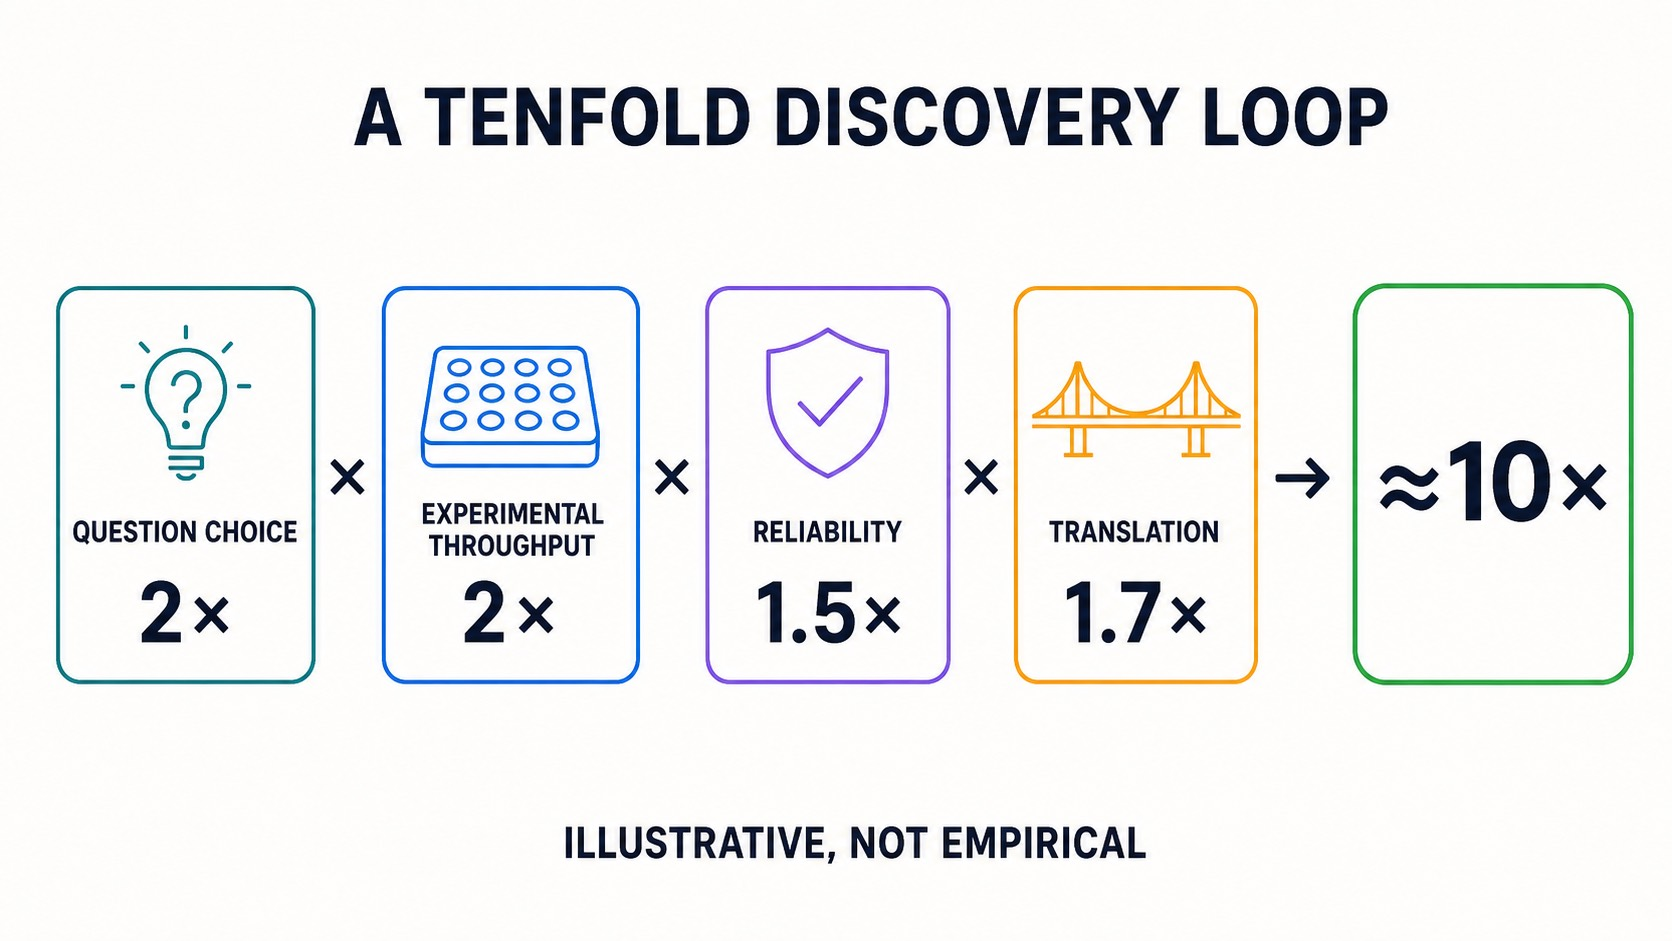
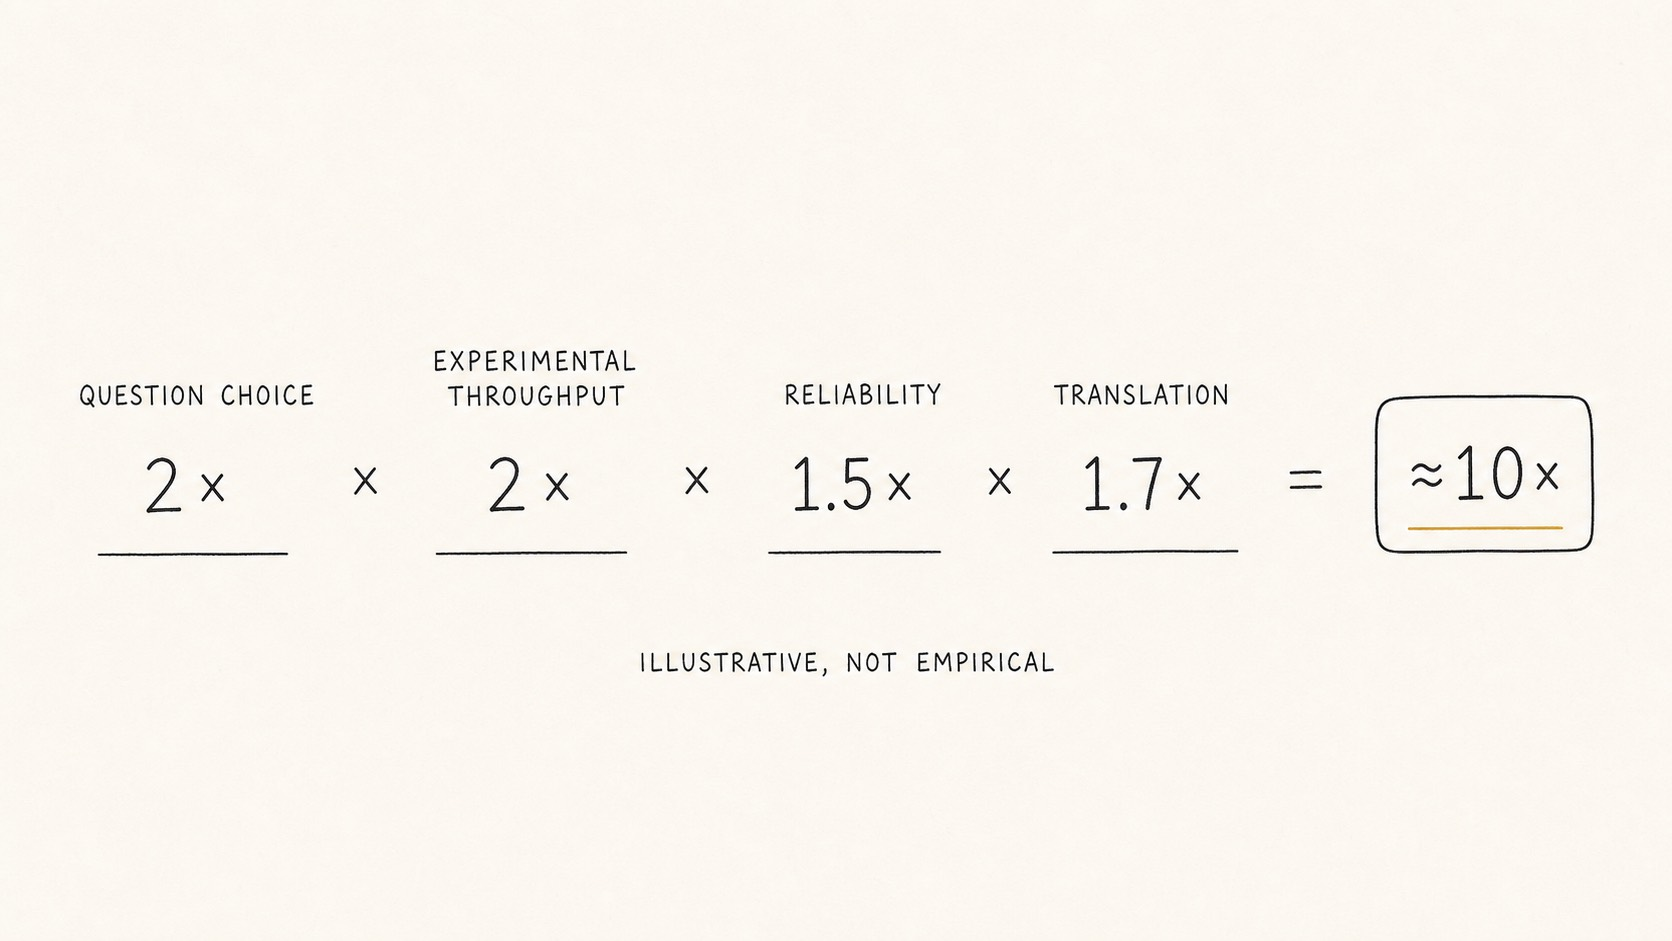
Restyle scientific discovery illustrations

diff --git a/assets/illustrations/ten-times-scientific-discovery/prompts/01-framework-tenfold-loop.md b/assets/illustrations/ten-times-scientific-discovery/prompts/01-framework-tenfold-loop.md
@@ -1,47 +1,46 @@
 ---
 illustration_id: 01
 type: framework
-style: scientific
+style: research-site-editorial-thin-line
 aspect_ratio: "16:9"
 final_filename: 01-framework-tenfold-loop.jpg
 ---
 
-Use case: scientific-educational
-Asset type: editorial illustration inside a research essay
-Primary request: Create a clean scientific framework titled exactly "A TENFOLD DISCOVERY LOOP" showing how four moderate stage improvements multiply to approximately tenfold.
-Scene/backdrop: Off-white flat background with no texture beyond an extremely subtle paper grain.
-Subject: A left-to-right equation made of four large modular cards connected by multiplication symbols, ending in one larger result card.
+Use case: infographic-diagram
+Asset type: quiet editorial figure inside a serious research essay
+Input images: Image 1 and Image 2 are style references from this publication. Match their warm paper, thin imperfect ink, hand lettering, sparse ochre accent, and generous negative space. Do not copy their subject matter.
+Primary request: Show how four moderate improvements multiply to approximately tenfold without making the inputs look empirical.
+Scene/backdrop: Warm off-white paper with faint natural grain.
+Subject: One restrained left-to-right equation made from hand-lettered labels, numbers, multiplication signs, and hairline rules. No title and no icons.
 
 LAYOUT:
-- TOP: centered title "A TENFOLD DISCOVERY LOOP".
-- MIDDLE: four equal cards in one row, each with a simple line icon and the exact text below. Place a large multiplication symbol between cards.
-- RIGHT: one larger result card connected by an equals arrow.
-- BOTTOM: centered caveat "ILLUSTRATIVE, NOT EMPIRICAL".
+- Across the middle, place four compact label-and-number groups in one row. Separate them with small hand-drawn multiplication signs.
+- Each group has a small hand-lettered label above a larger number and a short thin baseline below. Do not put the groups in cards.
+- At the right, use a hand-drawn equals sign followed by "≈10×" inside one spare rounded rectangle. Mark only this result with a thin muted-ochre underline.
+- Center the small caveat "ILLUSTRATIVE, NOT EMPIRICAL" below the equation.
 
 ZONES AND LABELS, render verbatim:
-1. Card one: "QUESTION CHOICE" and "2×"
-2. Card two: "EXPERIMENTAL THROUGHPUT" and "2×"
-3. Card three: "RELIABILITY" and "1.5×"
-4. Card four: "TRANSLATION" and "1.7×"
-5. Result card: "≈10×"
+1. "QUESTION CHOICE" and "2×"
+2. "EXPERIMENTAL THROUGHPUT" and "2×"
+3. "RELIABILITY" and "1.5×"
+4. "TRANSLATION" and "1.7×"
+5. "≈10×"
 6. Caveat: "ILLUSTRATIVE, NOT EMPIRICAL"
 
 COLORS:
-- Off-white background #FAFAFA.
-- Dark slate text and lines #1E293B.
-- Card accents in teal #0D9488, blue #3B82F6, purple #8B5CF6, and amber #F59E0B.
-- Result card in green #22C55E with dark slate text.
+- Warm off-white paper #F5F1E8.
+- Dark ink gray #252525 for every line, letter, and mathematical symbol.
+- Muted ochre #B89442 for the single underline beneath the result only; keep accent color under 5 percent of the canvas.
 Color values and color names are rendering guidance only. Do not display color names, hex codes, or palette labels.
 
 STYLE:
-- Precise academic scientific diagram, textbook quality.
-- Consistent thin lines, rounded modular cards, clear arrows, no decorative flourishes.
-- Large readable sans-serif typography, generous white space, very short labels only.
-- Clean composition with generous margins. Simple background. Main elements centered.
+- Match the supplied publication references: quiet editorial thin-line drawing, slightly imperfect black-ink strokes, small clean hand-lettered capitals, flat paper, and wide margins.
+- Make the composition feel drawn for an essay, not typeset for a slide.
+- Preserve information density through exact spacing and relationships, not decoration.
 
 CONSTRAINTS:
 - Render every quoted label exactly once, with no extra words.
 - Keep all mathematical symbols exact: 2×, 2×, 1.5×, 1.7×, ≈10×.
-- Do not imply that the four inputs are measured findings; the caveat must be prominent and readable.
-- No people, logos, trademarks, watermark, photorealism, gradients, or tiny text.
+- Keep the caveat readable but visually secondary.
+- No on-image title, pictograms, stock icons, multicolor palette, modular cards, badges, gradients, shadows, sans-serif display type, logos, trademarks, watermark, or photorealism.
 - Landscape 16:9.

diff --git a/assets/illustrations/ten-times-scientific-discovery/prompts/04-framework-validation-laboratory.md b/assets/illustrations/ten-times-scientific-discovery/prompts/04-framework-validation-laboratory.md
@@ -1,22 +1,23 @@
 ---
 illustration_id: 04
 type: framework
-style: scientific
+style: research-site-editorial-thin-line
 aspect_ratio: "16:9"
 final_filename: 04-framework-validation-laboratory.jpg
 ---
 
 Use case: infographic-diagram
-Asset type: editorial business-system diagram inside a research essay
-Primary request: Create a clean scientific operating model titled exactly "A VALIDATION LABORATORY" showing how a domain-specific laboratory turns candidates into evidence suitable for licensing or development decisions.
-Scene/backdrop: Off-white flat background.
-Subject: A left-to-right system with two input sources, one central laboratory, and two customer decisions. A data reservoir below the laboratory feeds back into future tests.
+Asset type: quiet editorial operating-model figure inside a serious research essay
+Input images: Image 1 and Image 2 are style references from this publication. Match their warm paper, thin imperfect ink, small hand lettering, sparse ochre accent, and generous negative space. Do not copy their subject matter.
+Primary request: Show how a domain-specific laboratory turns candidates into evidence suitable for licensing or development decisions.
+Scene/backdrop: Warm off-white paper with faint natural grain.
+Subject: A sparse left-to-right system made from hand-lettered labels, thin arrows, and simple outline containers. No title and no icons.
 
 LAYOUT:
-- LEFT INPUTS: two separate source cards feeding the center.
-- CENTER: one large laboratory boundary containing three stacked modules.
-- RIGHT OUTPUT: one evidence card that splits into two decision cards.
-- BOTTOM: one data reservoir connected back to the central laboratory with a feedback arrow.
+- LEFT INPUTS: two compact labels, HUMAN TEAMS and AI TEAMS, each with one thin arrow feeding the center. Use no source cards.
+- CENTER: one large hand-drawn rounded rectangle titled VALIDATION LAB. Inside, stack the three capabilities as plain hand-lettered lines separated by hairline rules.
+- RIGHT OUTPUT: one outlined AUDITABLE EVIDENCE container that branches through thin arrows to the plain labels LICENSING and DEVELOPMENT.
+- BOTTOM: one long shallow outline labeled POSITIVE + NEGATIVE RESULTS. Connect the lab down to it and return a dashed feedback arrow to the lab.
 
 ZONES AND LABELS, render verbatim:
 - Left card one: "HUMAN TEAMS"
@@ -37,25 +38,18 @@ RELATIONSHIPS:
 - POSITIVE + NEGATIVE RESULTS receives data from the lab and sends a feedback arrow back to future tests.
 
 COLORS:
-- Off-white background #FAFAFA.
-- Dark slate text and connectors #1E293B.
-- Human input teal #0D9488.
-- AI input blue #3B82F6.
-- Laboratory modules purple #8B5CF6 and amber #F59E0B.
-- Evidence and decision outputs green #22C55E.
-- Data reservoir light blue-gray #F0F4F8 with dark slate outline.
+- Warm off-white paper #F5F1E8.
+- Dark ink gray #252525 for all lettering, containers, rules, and arrows.
+- Muted ochre #B89442 only for one thin underline beneath AUDITABLE EVIDENCE; keep accent color under 5 percent of the canvas.
 Color values and color names are rendering guidance only. Do not display color names, hex codes, or palette labels.
 
 STYLE:
-- Academic scientific system diagram with precise line work, modular components, and directional arrows.
-- Flat textbook-quality icons: scientist silhouette, circuit node, assay plate, clipboard, data stack, contract, and product handoff.
-- Human figures, if any, must be simplified symbolic silhouettes, not photorealistic.
-- Large readable sans-serif typography, generous white space, no decorative flourishes.
-- Clean composition with generous margins. Simple background. Main elements centered.
+- Match the supplied publication references: quiet editorial thin-line drawing, slight human wobble, small clean hand-lettered capitals, flat paper, and generous negative space.
+- Make the visual hierarchy come from placement and line weight rather than color or pictograms.
 
 CONSTRAINTS:
 - Render every quoted label exactly once, with no extra words.
 - Spell PROVENANCE exactly P-R-O-V-E-N-A-N-C-E.
 - Keep the feedback arrow visually distinct from the forward evidence flow.
-- No logos, trademarks, watermark, gradients, decoration, or tiny text.
+- No on-image title, icons, human silhouettes, multicolor palette, modular UI cards, badges, gradients, shadows, sans-serif display type, logos, trademarks, watermark, decoration, or photorealism.
 - Landscape 16:9.

diff --git a/assets/illustrations/ten-times-scientific-discovery/prompts/02-timeline-discovery-systems.md b/assets/illustrations/ten-times-scientific-discovery/prompts/02-timeline-discovery-systems.md
@@ -1,49 +1,48 @@
 ---
 illustration_id: 02
 type: timeline
-style: scientific
+style: research-site-editorial-thin-line
 aspect_ratio: "16:9"
 final_filename: 02-timeline-discovery-systems.jpg
 ---
 
-Use case: scientific-educational
-Asset type: editorial timeline inside a research essay
-Primary request: Create a sparse horizontal timeline titled exactly "HOW THE DISCOVERY SYSTEM CHANGED" that places AI for science inside a longer institutional and automation history.
-Scene/backdrop: Off-white flat background with no complex texture.
-Subject: One horizontal line with seven clearly spaced milestone nodes. Early institution milestones use amber, closed-loop robot-scientist milestones use teal, and modern AI milestones use blue and purple.
+Use case: infographic-diagram
+Asset type: quiet editorial timeline inside a serious research essay
+Input images: Image 1 and Image 2 are style references from this publication. Match their warm paper, thin imperfect ink, small hand lettering, sparse ochre accent, and generous negative space. Do not copy their subject matter.
+Primary request: Place AI for science inside a longer institutional and automation history using one restrained horizontal timeline.
+Scene/backdrop: Warm off-white paper with faint natural grain.
+Subject: One thin hand-drawn horizontal baseline with seven small milestone dots. No title and no icons.
 
 DIRECTION: left to right.
 
-EVENTS, render verbatim:
-- "1945" above "SCIENCE, THE ENDLESS FRONTIER"
-- "1950" above "NSF"
-- "2009" above "ADAM"
-- "2015" above "EVE"
-- "2021" above "ALPHAFOLD"
-- "2023" above "A-LAB + FUNSEARCH"
-- "2026" above "ROBIN + CO-SCIENTIST"
+EVENTS, render verbatim as compact two-line labels:
+- "1945" with "ENDLESS FRONTIER"
+- "1950" with "NSF"
+- "2009" with "ADAM"
+- "2015" with "EVE"
+- "2021" with "ALPHAFOLD"
+- "2023" with "A-LAB + FUNSEARCH"
+- "2026" with "ROBIN + CO-SCIENTIST"
 
 MARKERS:
-- Use one simple icon per event: report page, institution building, robotic pipette, screening plate, protein ribbon, autonomous lab plus math symbol, and paired research agents.
-- Keep icons diagrammatic and small. No realistic people or faces.
+- Space all seven dots evenly along one fine baseline.
+- Alternate compact labels above and below the baseline when needed to preserve breathing room.
+- Draw six dots in ink gray and the final 2026 dot in muted ochre.
+- Add one small centered caption below the timeline: "INSTITUTIONS → AUTOMATION → AI COLLABORATORS".
 
 COLORS:
-- Off-white background #FAFAFA.
-- Dark slate text and timeline #1E293B.
-- 1945 and 1950 nodes amber #F59E0B.
-- 2009 and 2015 nodes teal #0D9488.
-- 2021 node blue #3B82F6.
-- 2023 and 2026 nodes purple #8B5CF6.
+- Warm off-white paper #F5F1E8.
+- Dark ink gray #252525 for the baseline, six dots, and all lettering.
+- Muted ochre #B89442 for the 2026 dot only; keep accent color under 3 percent of the canvas.
 Color values and color names are rendering guidance only. Do not display color names, hex codes, or palette labels.
 
 STYLE:
-- Academic scientific timeline, precise line work, flat diagrammatic icons, textbook quality.
-- Large readable sans-serif typography, generous horizontal spacing, no paragraph text.
-- Clean composition with generous white space. Simple background. Main elements centered.
+- Match the supplied publication references: quiet editorial thin-line drawing, slight human wobble, clean hand-lettered capitals, flat paper, and large areas of empty space.
+- Make the timeline feel like a marginal figure from a serious essay, not a presentation graphic.
 
 CONSTRAINTS:
-- Render every quoted date and label exactly once, with no extra words.
+- Render every quoted date, event, and caption exactly once, with no extra words.
 - Spell ALPHAFOLD exactly A-L-P-H-A-F-O-L-D.
 - Spell CO-SCIENTIST exactly C-O hyphen S-C-I-E-N-T-I-S-T.
-- No logos, trademarks, watermark, gradients, decoration, tiny text, or photorealism.
+- No on-image title, icons, multicolor categories, cards, badges, gradients, shadows, sans-serif display type, logos, trademarks, watermark, decoration, or photorealism.
 - Landscape 16:9.

diff --git a/assets/illustrations/ten-times-scientific-discovery/prompts/03-flowchart-moving-bottleneck.md b/assets/illustrations/ten-times-scientific-discovery/prompts/03-flowchart-moving-bottleneck.md
@@ -1,16 +1,26 @@
 ---
 illustration_id: 03
 type: flowchart
-style: scientific
+style: research-site-editorial-thin-line
 aspect_ratio: "16:9"
 final_filename: 03-flowchart-moving-bottleneck.jpg
 ---
 
 Use case: infographic-diagram
-Asset type: editorial process diagram inside a research essay
-Primary request: Create a scientific flowchart titled exactly "WHERE AI MOVES THE BOTTLENECK" showing that upstream research stages can speed up while validation and translation remain narrow gates.
-Scene/backdrop: Off-white flat background.
-Subject: Six connected stage boxes arranged left to right. The first three boxes are wide and cool-colored, experiments are medium width, and the final two boxes form visibly narrow gates. Use arrows to show flow, not a literal pipe.
+Asset type: quiet editorial process diagram inside a serious research essay
+Input images: Image 1 and Image 2 are style references from this publication. Match their warm paper, thin imperfect ink, small hand lettering, sparse ochre accent, and generous negative space. Do not copy their subject matter.
+Primary request: Show that upstream research stages can speed up while validation and translation remain narrow gates.
+Scene/backdrop: Warm off-white paper with faint natural grain.
+Subject: Six restrained hand-drawn stage containers connected left to right. No title and no icons.
+
+LAYOUT:
+- Place six small rounded rectangles on one horizontal centerline.
+- Make LITERATURE, HYPOTHESES, and PREDICTION equal and comfortably spaced, then EXPERIMENTS slightly smaller.
+- Draw VALIDATION and TRANSLATION as visibly narrow vertical gates rather than ordinary cards.
+- Connect the sequence with fine hand-drawn arrows.
+- Place a thin bracket over the first three stages labeled "CHEAPER + FASTER".
+- Put "SCARCE TESTS" above VALIDATION and "SLOW ADOPTION" above TRANSLATION.
+- Center the takeaway "UPSTREAM SPEED ≠ END-TO-END SPEED" below the process.
 
 STAGES, render verbatim:
 1. "LITERATURE"
@@ -26,27 +36,18 @@ ANNOTATIONS, render verbatim:
 - Above stage 6: "SLOW ADOPTION"
 - Bottom takeaway: "UPSTREAM SPEED ≠ END-TO-END SPEED"
 
-CONNECTIONS:
-- Clear arrows from each stage to the next.
-- The arrows into VALIDATION and TRANSLATION visibly narrow.
-- Add simple scientific line icons: papers, lightbulb with molecule, model grid, robotic pipette, checkmark over assay plate, and factory or clinic handoff.
-
 COLORS:
-- Off-white background #FAFAFA.
-- Dark slate text and arrows #1E293B.
-- Literature, hypotheses, and prediction in blue #3B82F6 and teal #0D9488.
-- Experiments in purple #8B5CF6.
-- Validation in amber #F59E0B.
-- Translation in red #EF4444 used sparingly.
+- Warm off-white paper #F5F1E8.
+- Dark ink gray #252525 for all text, containers, brackets, and arrows.
+- Muted ochre #B89442 only for the two narrow gate outlines; keep accent color under 8 percent of the canvas.
 Color values and color names are rendering guidance only. Do not display color names, hex codes, or palette labels.
 
 STYLE:
-- Precise academic scientific flowchart, consistent line weights, rounded stage boxes, flat icons.
-- Large readable sans-serif typography, strong hierarchy, generous white space.
-- Clean composition with generous margins. Simple background. Main elements centered.
+- Match the supplied publication references: quiet editorial thin-line drawing, slight human wobble, small clean hand-lettered capitals, flat paper, and wide margins.
+- Let the narrowing geometry carry the argument. Keep every other mark subordinate.
 
 CONSTRAINTS:
 - Render each quoted label exactly once, with no extra text.
 - The diagram must communicate a process bottleneck, not a financial funnel.
-- No people, logos, trademarks, watermark, photorealism, gradients, decoration, or tiny text.
+- No on-image title, icons, multicolor categories, numbered circles, thick arrows, glossy cards, gradients, shadows, sans-serif display type, people, logos, trademarks, watermark, or photorealism.
 - Landscape 16:9.

diff --git a/assets/illustrations/ten-times-scientific-discovery/outline.md b/assets/illustrations/ten-times-scientific-discovery/outline.md
@@ -1,8 +1,8 @@
 ---
 type: mixed
 density: minimal
-style: scientific
-palette: default
+style: research-site editorial thin-line
+palette: ink on warm off-white, one muted ochre accent
 language: en
 image_count: 4
 watermark: false
@@ -14,7 +14,7 @@ backend: imagegen
 **Position**: What exactly should become ten times faster? / after the accounting identity
 **Purpose**: Show how several moderate improvements can multiply to about tenfold without implying that any input is an empirical estimate.
 **Visual Content**: Four linked multipliers, 2× question choice, 2× experimental throughput, 1.5× reliability, and 1.7× translation, producing approximately 10×.
-**Type Application**: Scientific framework with a left-to-right equation.
+**Type Application**: Quiet editorial framework with a left-to-right equation and no decorative icons.
 **Filename**: 01-framework-tenfold-loop.jpg
 
 ## Illustration 2
@@ -22,7 +22,7 @@ backend: imagegen
 **Position**: Metascience is older than its current name / after the Adam and Eve history
 **Purpose**: Place current AI systems inside the longer history of scientific institutions and closed-loop automation.
 **Visual Content**: Timeline from Bush and NSF through Adam, Eve, AlphaFold, A-Lab, FunSearch, Robin, and Co-Scientist.
-**Type Application**: Sparse scientific timeline with seven dated milestones.
+**Type Application**: Sparse hand-drawn timeline with seven dated milestones.
 **Filename**: 02-timeline-discovery-systems.jpg
 
 ## Illustration 3
@@ -30,7 +30,7 @@ backend: imagegen
 **Position**: Where the bottlenecks move / after the translation section
 **Purpose**: Make the article's central inference visible: faster upstream stages shift scarcity toward testing and use.
 **Visual Content**: Six-stage flow from literature through translation, with the validation and translation gates visibly narrower.
-**Type Application**: Scientific process flowchart.
+**Type Application**: Thin-line editorial process flowchart with narrow downstream gates.
 **Filename**: 03-flowchart-moving-bottleneck.jpg
 
 ## Illustration 4
@@ -38,5 +38,5 @@ backend: imagegen
 **Position**: Six ways a company could make money / after the validation-laboratory thesis
 **Purpose**: Explain the proposed company in one operational diagram.
 **Visual Content**: Human and AI teams submit candidates; a validation laboratory runs blinded tests, standard assays, and provenance capture; customers receive auditable evidence for licensing or development; positive and negative results improve later work.
-**Type Application**: Scientific business-system framework.
+**Type Application**: Editorial operating-model framework built from labels, lines, and simple containers.
 **Filename**: 04-framework-validation-laboratory.jpg
